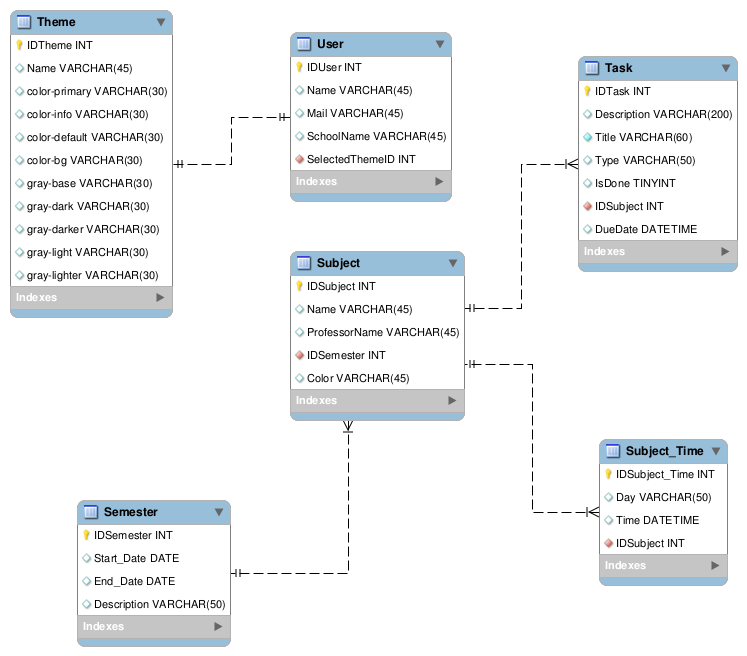
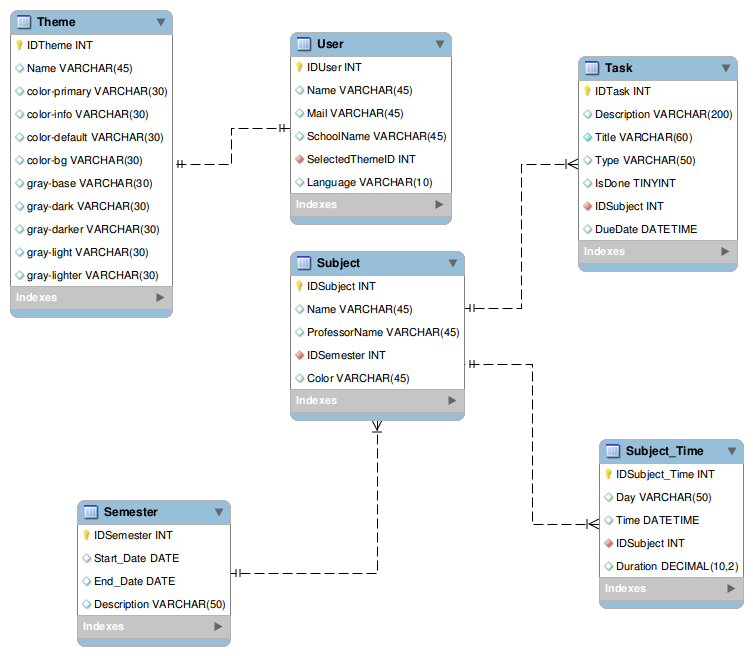
Adds duration to a subject.

diff --git a/src/database/SubjectDatabaseController.java b/src/database/SubjectDatabaseController.java
@@ -38,8 +38,8 @@ public class SubjectDatabaseController {
 					ScheduleItem day = new ScheduleItem();
 					day.setDay(times.getString(2));
 					day.setTime(times.getTime(3).toLocalTime());
-					day.setStart(times.getDate(5).toLocalDate());
-					day.setEnd(times.getDate(6).toLocalDate());
+					day.setStart(times.getDate(6).toLocalDate());
+					day.setEnd(times.getDate(7).toLocalDate());
 					days.add(day);
 				}
 				ClassCellItems cell = new ClassCellItems();
@@ -135,7 +135,7 @@ public class SubjectDatabaseController {
 		return ids;
 	}
 	
-	public static boolean addSubject(String professor, String subject, int semester, String color, List<String> days, List<String> hours){
+	public static boolean addSubject(String professor, String subject, int semester, String color, List<String> days, List<String> hours, float duration){
 		Connection conn = null;
 		PreparedStatement ps = null;
 		ResultSet rs = null;
@@ -157,11 +157,12 @@ public class SubjectDatabaseController {
 				subjectID = rs.getInt("ID");
 			
 			//Inserts subject time
-			ps = conn.prepareStatement("Insert into Subject_Time(Day,Time,IDSubject) Values(?,?,?)");
+			ps = conn.prepareStatement("Insert into Subject_Time(Day,Time,IDSubject,Duration) Values(?,?,?,?)");
 			for(int i=0; i< days.size();i++){
 				ps.setString(1, days.get(i));
 				ps.setString(2, hours.get(i));
 				ps.setInt(3, subjectID);
+				ps.setFloat(4, duration);
 				ps.executeUpdate();
 			}
 			

diff --git a/src/controllers/ManageSubjectsController.java b/src/controllers/ManageSubjectsController.java
@@ -34,6 +34,8 @@ public class ManageSubjectsController implements Initializable {
 	@FXML ChoiceBox<String> dayChoiceBox;
 	@FXML Spinner<Integer> hourSpinner;
 	@FXML Spinner<Integer> minuteSpinner;
+	@FXML Spinner<Integer> hourSpinnerDuration;
+	@FXML Spinner<Integer> minuteSpinnerDuration;
 	@FXML Button btnAddSubjectTime;
 	@FXML Button btnAccept;
 	@FXML Button btnCancel;
@@ -87,8 +89,11 @@ public class ManageSubjectsController implements Initializable {
 	}
 	
 	public void btnAcceptAction(){
+		
+		float duration = hourSpinnerDuration.getValue() + (minuteSpinnerDuration.getValue() / 10);
+		
 		if(SubjectDatabaseController.addSubject(txtProfessor.getText(), txtSubject.getText(), semesterChoiceBox.getValue(), 
-												"#" + colorPicker.getValue().toString().substring(2, 8), days, hours)){
+												"#" + colorPicker.getValue().toString().substring(2, 8), days, hours, duration)){
 			dialogStage = (Stage) btnCancel.getScene().getWindow();
 			dialogStage.close();
 		}else{
@@ -100,8 +105,7 @@ public class ManageSubjectsController implements Initializable {
 		dialogStage = (Stage) btnCancel.getScene().getWindow();
 		dialogStage.close();
 	}
-	
-	
+		
 	public void btnManageStored(){
 		try {
 			
